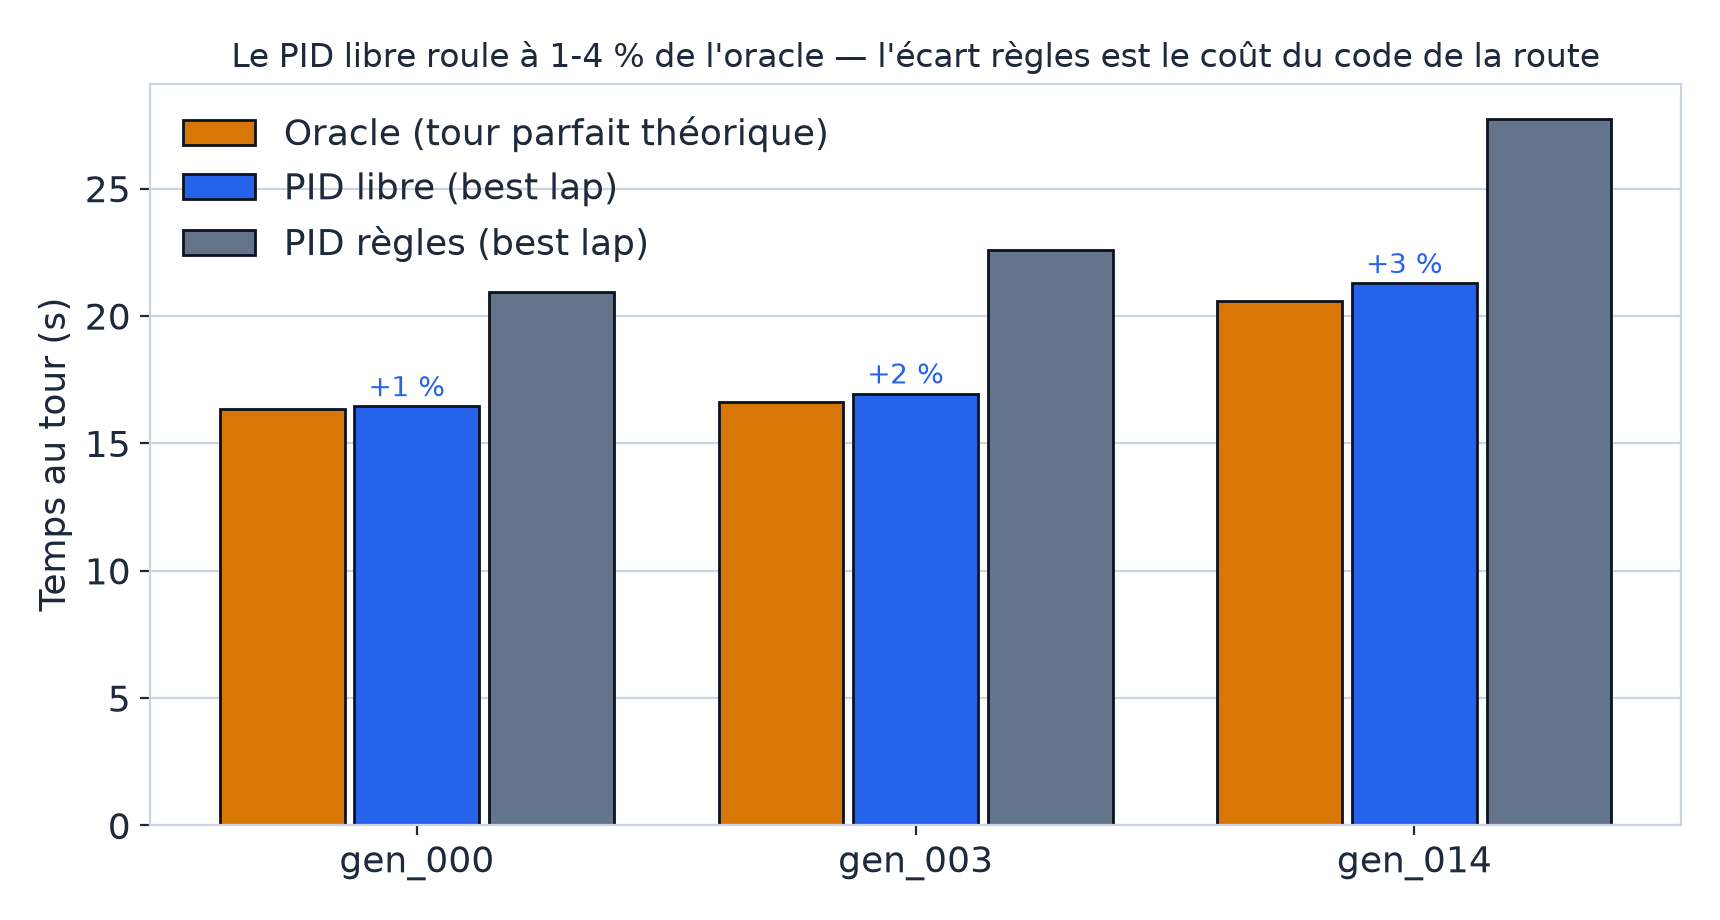
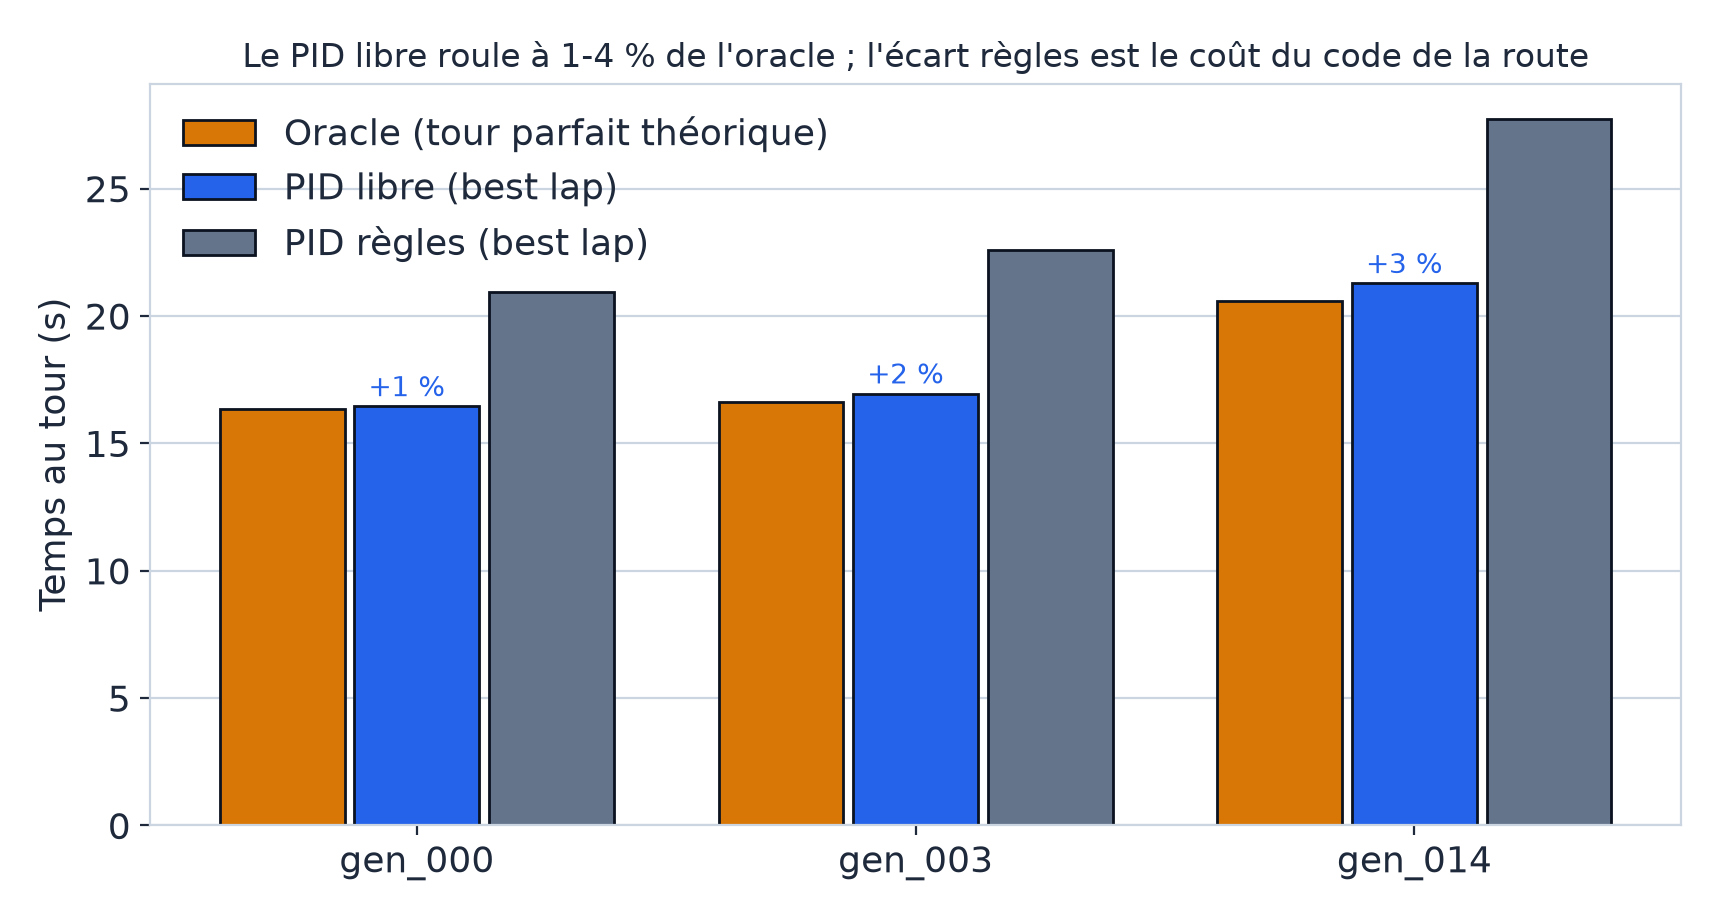
style(soutenance): zero tiret cadratin dans les slides
30 occurrences visibles remplacees au cas par cas (deux-points, virgule,
parenthese ou point selon la phrase) : titres, kicker, sous-titre, puces,
annexes, titre d'onglet, placeholder de l'animation occlusion (devient
une ellipse) et titre du graphe oracle (regenere). Notes presentateur
inchangees (document interne).
Verifie : 0 cadratin visible restant, hauteurs stables, 0 erreur console

Changed region(s): [[0.1233, 0.0304, 0.9244, 0.0913]]

diff --git a/docs/soutenance/index.html b/docs/soutenance/index.html
@@ -3,7 +3,7 @@
 <head>
   <meta charset="utf-8">
   <meta name="viewport" content="width=device-width, initial-scale=1.0">
-  <title>Autonomous Twin — Soutenance M1</title>
+  <title>Autonomous Twin · Soutenance M1</title>
   <link rel="icon" href="data:,">
   <link rel="stylesheet" href="vendor/reset.css">
   <link rel="stylesheet" href="vendor/reveal.css">
@@ -17,9 +17,9 @@
          retirable en supprimant .filigrane) -->
     <section data-anim="intro" data-sector="01" data-phase="Ouverture">
       <img class="filigrane" src="assets/circuits/gen_014.png" alt="" aria-hidden="true">
-      <p class="kicker">ESGI M1 — Architecture Logicielle &amp; IA Big Data</p>
+      <p class="kicker">ESGI M1 · Architecture Logicielle &amp; IA Big Data</p>
       <h1 id="titre-principal">AUTONOMOUS&nbsp;TWIN</h1>
-      <p class="soustitre">Jumeau numérique automobile — conduite autonome sur circuits inconnus</p>
+      <p class="soustitre">Jumeau numérique automobile : conduite autonome sur circuits inconnus</p>
       <hr class="filet-garde" aria-hidden="true">
       <p class="equipe">Charles · Nohlan · Lorenzo</p>
       <p class="date-garde">Soutenance M1 · Juillet 2026</p>
@@ -89,7 +89,7 @@
         <div class="boite boite-pilote">PILOTE<br><span class="petit">client</span></div>
       </div>
       <ul class="compact">
-        <li>Deux programmes indépendants — le simulateur reste jouable au clavier sans pilote</li>
+        <li>Deux programmes indépendants : le simulateur reste jouable au clavier sans pilote</li>
         <li>60 échanges par seconde : les capteurs dans un sens, les commandes dans l'autre</li>
       </ul>
       <aside class="notes">
@@ -156,7 +156,7 @@
           <p class="cap">Le vrai couple caméra / masque du dashboard pilote</p>
         </div>
       </div>
-      <p class="iou-line">U-Net entraîné from scratch (&lt; 1 M params) — <strong>IoU 1,0000</strong> sur 5 circuits jamais vus.</p>
+      <p class="iou-line">U-Net entraîné from scratch (&lt; 1 M params) : <strong>IoU 1,0000</strong> sur 5 circuits jamais vus.</p>
       <p class="honnete">Un score parfait, c'est d'abord un signal d'alarme. En vérifiant, on a vu
       qu'il avait appris un seuillage de luminance (0 pixel d'écart). On l'a donc remplacé
       par ce seuillage : résultat identique, coût d'environ 10 µs. Le modèle entraîné reste
@@ -174,10 +174,10 @@
 
       <!-- 6a. Le modèle : architecture -->
       <section>
-        <h2>Conduire — le CNN <span style="font-family:var(--f-mono);font-size:.5em;color:var(--green-deep)">~557k paramètres</span></h2>
+        <h2>Conduire : le CNN <span style="font-family:var(--f-mono);font-size:.5em;color:var(--green-deep)">~557k paramètres</span></h2>
 
         <div style="display:flex;flex-direction:column;gap:.6em;font-family:var(--f-mono);font-size:.62em;margin:.6em 0 .8em;text-align:left">
-          <div style="font-size:.72em;letter-spacing:.08em;text-transform:uppercase;color:var(--faint)">Branche image — extraire la forme</div>
+          <div style="font-size:.72em;letter-spacing:.08em;text-transform:uppercase;color:var(--faint)">Branche image : extraire la forme</div>
           <div style="display:flex;align-items:center;gap:.6em;flex-wrap:wrap">
             <span style="border:1px solid var(--accent);color:var(--accent-deep);border-radius:7px;padding:.35em .7em;background:var(--surface);font-weight:600">masque 64×64</span>
             <span style="color:var(--faint)">→</span>
@@ -185,13 +185,13 @@
             <span style="color:var(--faint)">→</span>
             <span style="border:1px solid var(--green);color:var(--green-deep);border-radius:7px;padding:.35em .7em;background:var(--surface);font-weight:600">Linear → 128</span>
           </div>
-          <div style="font-size:.72em;letter-spacing:.08em;text-transform:uppercase;color:var(--faint)">Branche lidar — 5 rayons [0,300]px → [0,1]</div>
+          <div style="font-size:.72em;letter-spacing:.08em;text-transform:uppercase;color:var(--faint)">Branche lidar : 5 rayons [0,300]px → [0,1]</div>
           <div style="display:flex;align-items:center;gap:.6em;flex-wrap:wrap">
             <span style="border:1px solid var(--accent);color:var(--accent-deep);border-radius:7px;padding:.35em .7em;background:var(--surface);font-weight:600">lidar (5)</span>
             <span style="color:var(--faint)">→</span>
             <span style="border:1px solid var(--green);color:var(--green-deep);border-radius:7px;padding:.35em .7em;background:var(--surface);font-weight:600">MLP → 16</span>
           </div>
-          <div style="font-size:.72em;letter-spacing:.08em;text-transform:uppercase;color:var(--faint)">Fusion & décision — « le régresseur »</div>
+          <div style="font-size:.72em;letter-spacing:.08em;text-transform:uppercase;color:var(--faint)">Fusion & décision : « le régresseur »</div>
           <div style="display:flex;align-items:center;gap:.6em;flex-wrap:wrap">
             <span style="border:1px solid #b9791c;color:#b9791c;border-radius:7px;padding:.35em .7em;background:var(--surface);font-weight:600">concat 144</span>
             <span style="color:var(--faint)">→</span>
@@ -214,16 +214,16 @@
 
       <!-- 6b. L'imitation -->
       <section>
-        <h2>Conduire — apprendre par imitation</h2>
+        <h2>Conduire : apprendre par imitation</h2>
         <div class="conduire-layout">
           <div class="jauge">
             <div class="grand-chiffre"><span>30</span><span class="sur">/30</span></div>
             <p class="legende-chiffre">circuits validés, 0&nbsp;% hors-piste</p>
           </div>
           <ul>
-            <li>Behavioral cloning d'un PID qui fait des tours propres — loss MSE</li>
-            <li>Entrée : masque 64×64 + lidar — <strong>jamais l'image brute</strong> → le CNN ne voit que la forme</li>
-            <li>Sortie : volant (<strong>MAE 1,80°</strong>) et gaz (<strong>MAE 0,056</strong>) — régression</li>
+            <li>Behavioral cloning d'un PID qui fait des tours propres (loss MSE)</li>
+            <li>Entrée : masque 64×64 + lidar, <strong>jamais l'image brute</strong> → le CNN ne voit que la forme</li>
+            <li>Sortie : volant (<strong>MAE 1,80°</strong>) et gaz (<strong>MAE 0,056</strong>), en régression</li>
             <li>Filet de sécurité : retour PID à tout moment</li>
           </ul>
         </div>
@@ -241,9 +241,9 @@
 
     <!-- 7. Généraliser -->
     <section data-anim="circuits" data-sector="07" data-phase="Généralisation">
-      <h2>Généraliser — la consigne n°1</h2>
+      <h2>Généraliser : la consigne n°1</h2>
       <blockquote>« Souvent la solution ne généralise pas et ne permet pas d'exécuter
-      la conduite sur différents circuits. » — l'avertissement du sujet</blockquote>
+      la conduite sur différents circuits. » (l'avertissement du sujet)</blockquote>
       <div class="galerie-circuits">
         <img src="assets/circuits/gen_000.png" alt="circuit gen_000">
         <img src="assets/circuits/gen_003.png" alt="circuit gen_003">
@@ -257,7 +257,7 @@
         <span class="stat-pin"><b>5</b> jamais-vus en éval</span>
       </div>
       <ul class="compact">
-        <li><strong>30 circuits générés</strong> procéduralement — épingles, chicanes, lignes droites, seed reproductible (25 train, 5 validation)</li>
+        <li><strong>30 circuits générés</strong> procéduralement : épingles, chicanes, lignes droites, seed reproductible (25 train, 5 validation)</li>
         <li>Split train/validation <strong>par circuit</strong> : aucune évaluation sur du déjà-vu. Le CNN ne voyant que son environnement proche, l'important est de varier les géométries locales</li>
       </ul>
       <aside class="notes">
@@ -269,7 +269,7 @@
 
     <!-- 8. Panneaux -->
     <section data-anim="panneaux" data-sector="08" data-phase="Panneaux">
-      <h2>Lire les panneaux — et obéir</h2>
+      <h2>Lire les panneaux, et obéir</h2>
       <div class="pipeline">
         <div class="etape">Détection<br><span class="petit">repérage du rouge dans l'image</span></div>
         <div class="pipe-fleche" aria-hidden="true">→</div>
@@ -316,10 +316,10 @@
           <span class="cam-label">champ caméra 128&nbsp;px</span>
           <div class="sign-panneau" id="sign-occlusion"><span>3</span><span>0</span></div>
         </div>
-        <div class="pred" id="pred-occlusion">panneau lu : <strong>—</strong></div>
+        <div class="pred" id="pred-occlusion">panneau lu : <strong>…</strong></div>
       </div>
       <p class="lecon">La caméra cadre un carré fixe autour de la voiture : un panneau trop décalé
-      sur le côté sortait du champ. Un «&nbsp;<s>3</s>0&nbsp;» est réellement ambigu — le modèle répondait juste.</p>
+      sur le côté sortait du champ. Un «&nbsp;<s>3</s>0&nbsp;» est réellement ambigu : le modèle répondait juste.</p>
       <p class="fix">Correctif mesuré : panneaux replacés dans le champ + rejet des images tronquées
       → confiance 0,94 et plus. <em>Leçon : instrumenter avant d'accuser le modèle.</em></p>
       <aside class="notes">
@@ -372,13 +372,13 @@
     <section data-sector="11" data-phase="Démo">
       <h2>Démonstration en direct</h2>
       <ol class="checklist-demo">
-        <li>Un tour réglementaire — <strong>50,0&nbsp;km/h</strong> pile sous la limite 50</li>
+        <li>Un tour réglementaire : <strong>50,0&nbsp;km/h</strong> pile sous la limite 50</li>
         <li>Arrêt STOP exécuté depuis ~95&nbsp;km/h</li>
         <li>Mur surgi à vitesse de croisière → arrêt net, zéro contact</li>
         <li>Épingle à 70&nbsp;km/h, braquage complet, sans freinage d'urgence</li>
         <li>Dashboard pilote en temps réel</li>
       </ol>
-      <p class="cap">Circuit gen_014 — celui qui ne finissait pas ses trois tours avant l'optimisation</p>
+      <p class="cap">Circuit gen_014, celui qui ne finissait pas ses trois tours avant l'optimisation</p>
       <aside class="notes">
         Bascule sur le simulateur (lancé AVANT la soutenance, en pause).
         Charles au clavier pour le mur (Espace), Lorenzo commente le dashboard,
@@ -418,7 +418,7 @@
         <div class="pipe-fleche" aria-hidden="true">→</div>
         <div class="etape">Mur déplacé, par choix<br><span class="petit">plafond porté à 100 km/h</span></div>
       </div>
-      <p class="merci">Merci — place aux questions.</p>
+      <p class="merci">Merci. Place aux questions.</p>
       <aside class="notes">
         Lorenzo : conclusion en 45 s, en suivant la frise : d'abord les freins
         LOGICIELS (le fantôme, les brides), ensuite le mur PHYSIQUE (70,6, oracle),
@@ -431,7 +431,7 @@
     <section>
       <section>
         <h2>Annexes</h2>
-        <p>Matériel pour les questions — flèche ↓</p>
+        <p>Matériel pour les questions (flèche ↓)</p>
         <ul class="compact sommaire-annexes">
           <li>A1 · Pourquoi pas du RL end-to-end</li>
           <li>A2 · La classe « aucun » et les murs</li>
@@ -443,9 +443,9 @@
       <section>
         <h3>A1 · Pourquoi pas du RL end-to-end ?</h3>
         <ul>
-          <li>Temps d'entraînement long, surapprend le circuit d'entraînement — or le critère est la généralisation</li>
+          <li>Temps d'entraînement long, surapprend le circuit d'entraînement ; or le critère est la généralisation</li>
           <li>Pipeline perception → contrôle : chaque étage se valide indépendamment (masque, commandes)</li>
-          <li>Lisible en soutenance — un RL est une boîte noire</li>
+          <li>Lisible en soutenance : un RL est une boîte noire</li>
           <li>Décision D1, actée en février et jamais regrettée</li>
         </ul>
       </section>
@@ -453,7 +453,7 @@
         <h3>A2 · La classe « aucun » et les murs</h3>
         <ul>
           <li>Le dataset « aucun » contient des crops de mur brique <em>texturés</em>, la caméra pilote voit un aplat</li>
-          <li>Sans conséquence mesurée : le rouge brique (~150-180) reste sous le seuil du détecteur (190) — le classifieur n'est jamais sollicité</li>
+          <li>Sans conséquence mesurée : le rouge brique (~150-180) reste sous le seuil du détecteur (190) : le classifieur n'est jamais sollicité</li>
           <li>Vérifié en boucle fermée : zéro déclenchement sur mur pendant tous les scénarios</li>
         </ul>
       </section>
@@ -461,9 +461,9 @@
         <h3>A3 · Variance &amp; reproductibilité</h3>
         <div class="annexe-grid">
           <ul>
-            <li>Val accuracy du classifieur : 0,90-0,95 selon la seed (0,9513 committé) — seuil d'échec dur à 0,90 (bascule GTSRB, jamais déclenchée)</li>
+            <li>Val accuracy du classifieur : 0,90-0,95 selon la seed (0,9513 committé) ; seuil d'échec dur à 0,90 (bascule GTSRB, jamais déclenchée)</li>
             <li>Tout est régénérable : circuits (seed 1000), sidecars panneaux (seed par nom), dataset, entraînement ~4 min CPU</li>
-            <li>Modèles .pth versionnés — clone et ça tourne</li>
+            <li>Modèles .pth versionnés : clone et ça tourne</li>
           </ul>
           <div class="annexe-graph">
             <div class="hud-screen">
@@ -478,10 +478,10 @@
         <h3>A4 · Protocole de mesure</h3>
         <div class="a5-grid">
           <ul>
-            <li>Headless, dt fixe 1/60 — temps simulés déterministes, indépendants du CPU</li>
+            <li>Headless, dt fixe 1/60 : temps simulés déterministes, indépendants du CPU</li>
             <li>Par run : temps/tour, best lap, % arrêt, % urgence, % hors-piste, arrêts STOP</li>
             <li>Configs : règles (CDC) / libre (potentiel châssis) / CNN</li>
-            <li>JSON datés committés dans <code>bench/</code> — chaque optimisation a son avant/après traçable</li>
+            <li>JSON datés committés dans <code>bench/</code> : chaque optimisation a son avant/après traçable</li>
           </ul>
           <div class="a5-visuel">
             <div class="instrument">

diff --git a/docs/soutenance/animations.js b/docs/soutenance/animations.js
@@ -110,8 +110,8 @@ const ANIMS = {
       pred.classList.toggle('pred-ko', ok === false);
       pred.classList.toggle('pred-ok', ok === true);
     };
-    setPred('—', null);
-    return createTimeline({ loop: true, loopDelay: 2200, onLoop: () => setPred('—', null) })
+    setPred('…', null);
+    return createTimeline({ loop: true, loopDelay: 2200, onLoop: () => setPred('…', null) })
       // Le panneau glisse vers le bord gauche du champ : le « 3 » sort,
       // il ne reste qu'un « 0 » visible — d'où la lecture « 90 » à conf 1.00.
       .add(sign, { left: ['110px', '-58px'], duration: 1500, ease: 'inOutQuad' })

diff --git a/scripts/plot_deck_graphs.py b/scripts/plot_deck_graphs.py
@@ -104,7 +104,7 @@ def g3_oracle(post_libre, post):
                 ha="center", fontsize=10, color=BLEU)
     ax.set_xticks(x, CIRCUITS)
     ax.set_ylabel("Temps au tour (s)")
-    ax.set_title("Le PID libre roule à 1-4 % de l'oracle — l'écart règles est le coût du code de la route", fontsize=12)
+    ax.set_title("Le PID libre roule à 1-4 % de l'oracle ; l'écart règles est le coût du code de la route", fontsize=12)
     ax.legend(frameon=False)
     sauver(fig, "oracle.png")
 